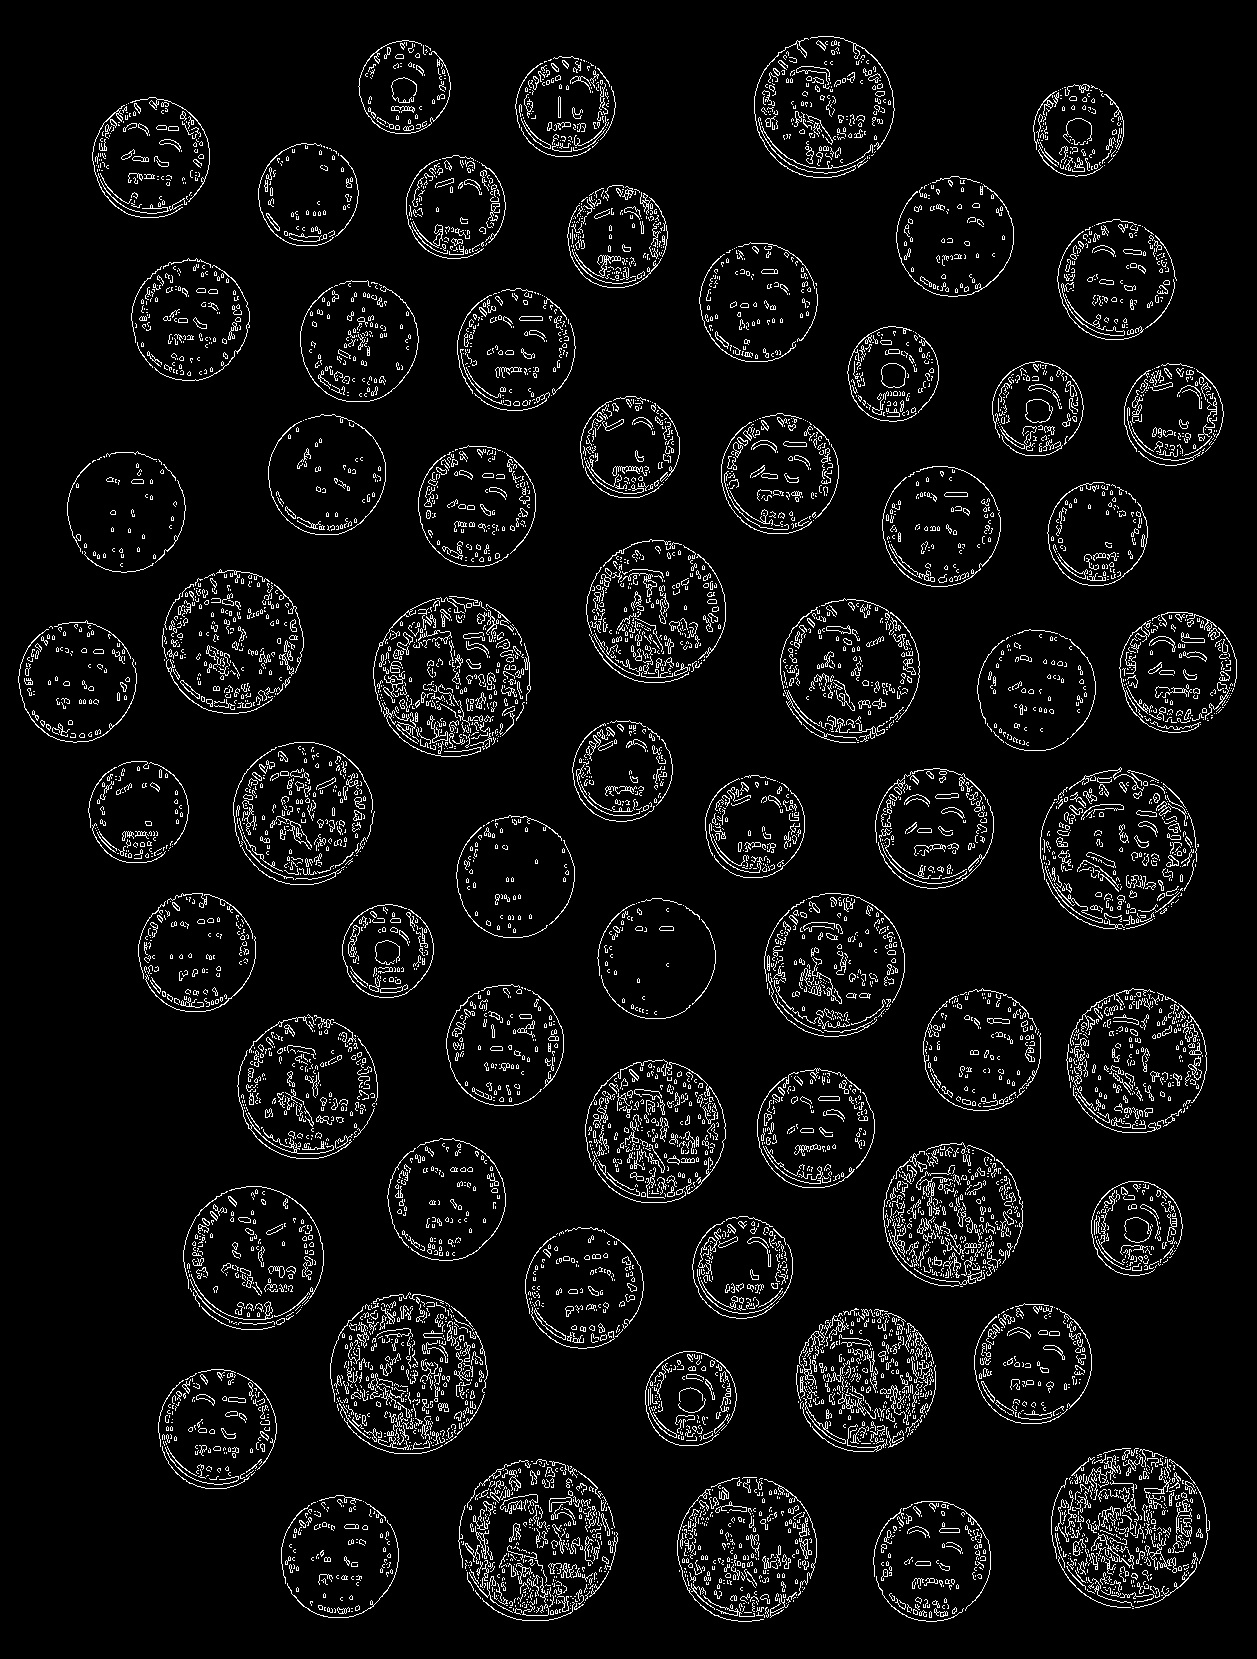
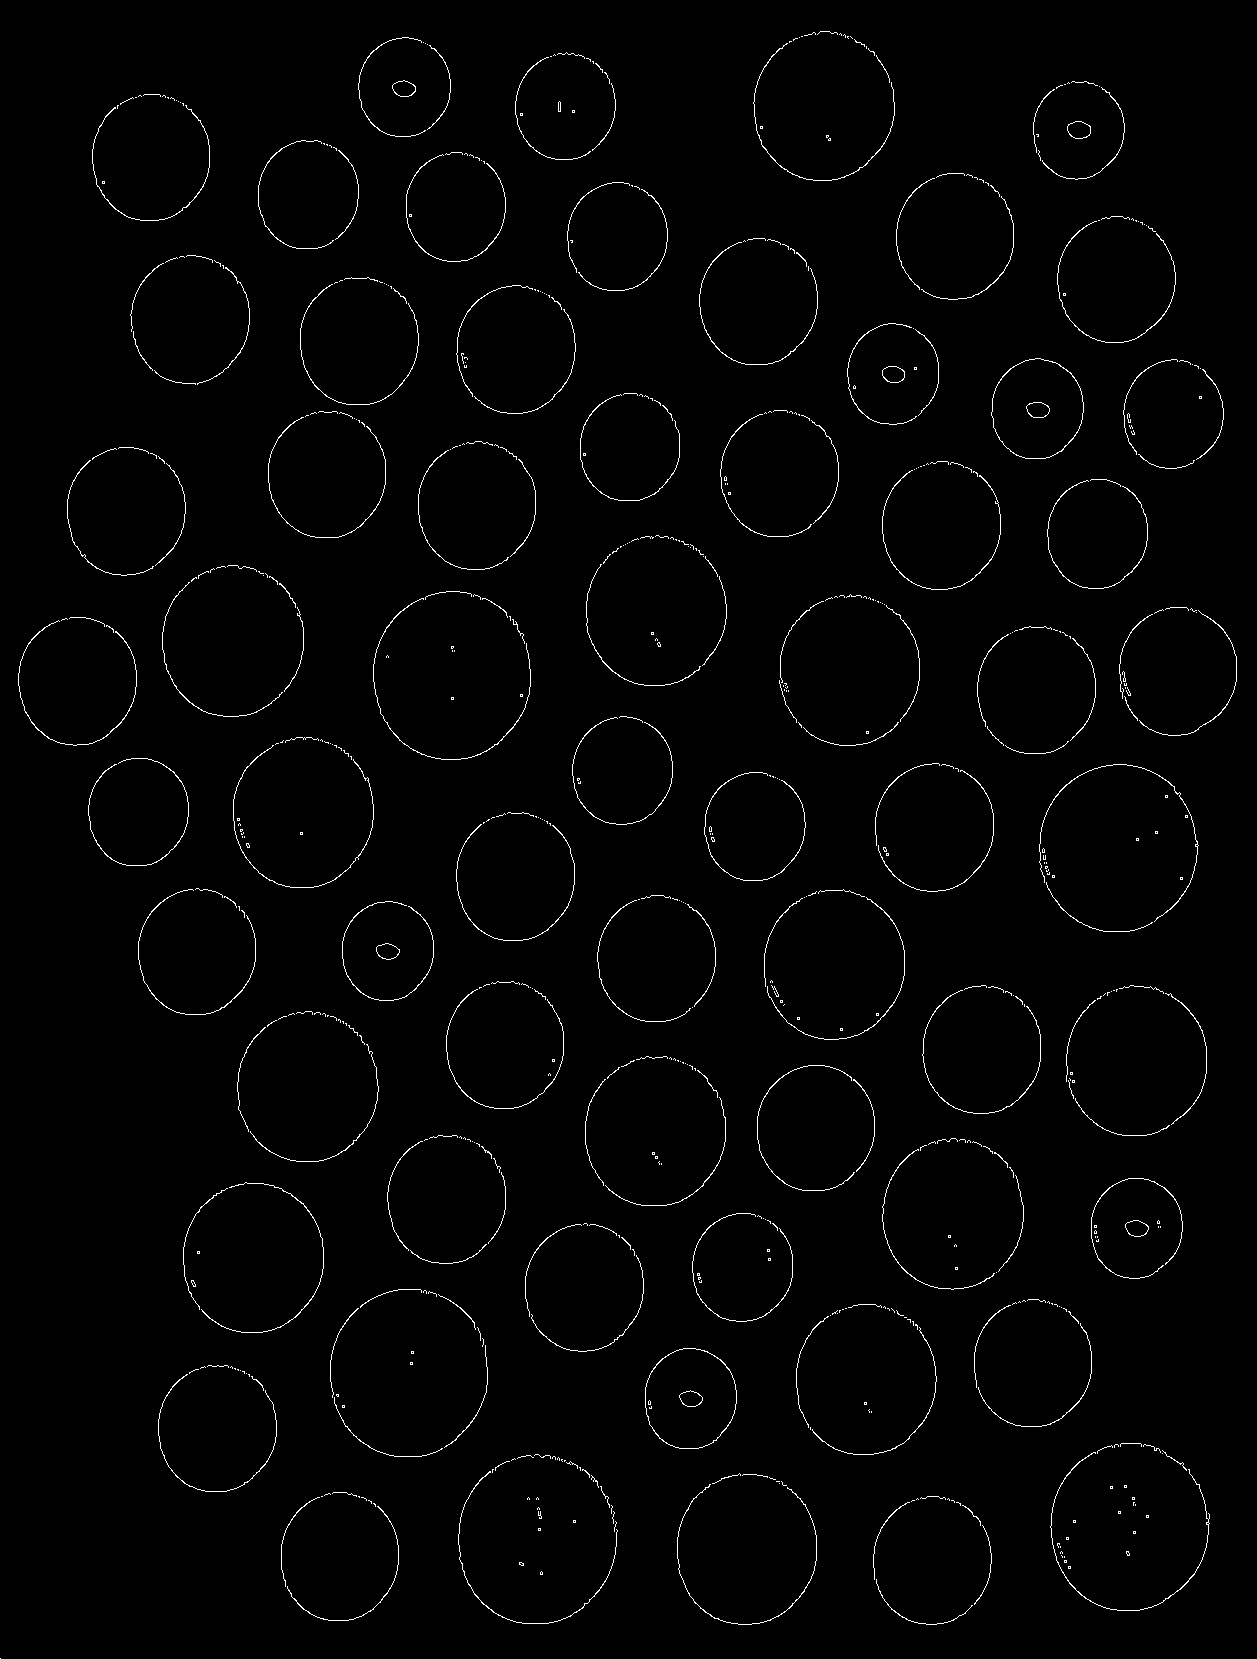
fix: correct filename for saving

diff --git a/main.py b/main.py
@@ -22,12 +22,12 @@ cv.imwrite("./output/output1.jpg", img2)
 
 
 dilate = cv.erode(img2, (4, 4), iterations=3)
-cv.imwrite("./output/output_erode.jpg", dilate)
+cv.imwrite("./output/output_dilate.jpg", dilate)
 
 erode = cv.dilate(img2, (4, 4), iterations=3)
-cv.imwrite("./output/output_dilate.jpg", erode)
+cv.imwrite("./output/output_erode.jpg", erode)
 
-img3 = cv.Canny(erode, 50, 150)
+img3 = cv.Canny(dilate, 50, 150)
 
 cv.imwrite("./output/output2.jpg", img3)
 
